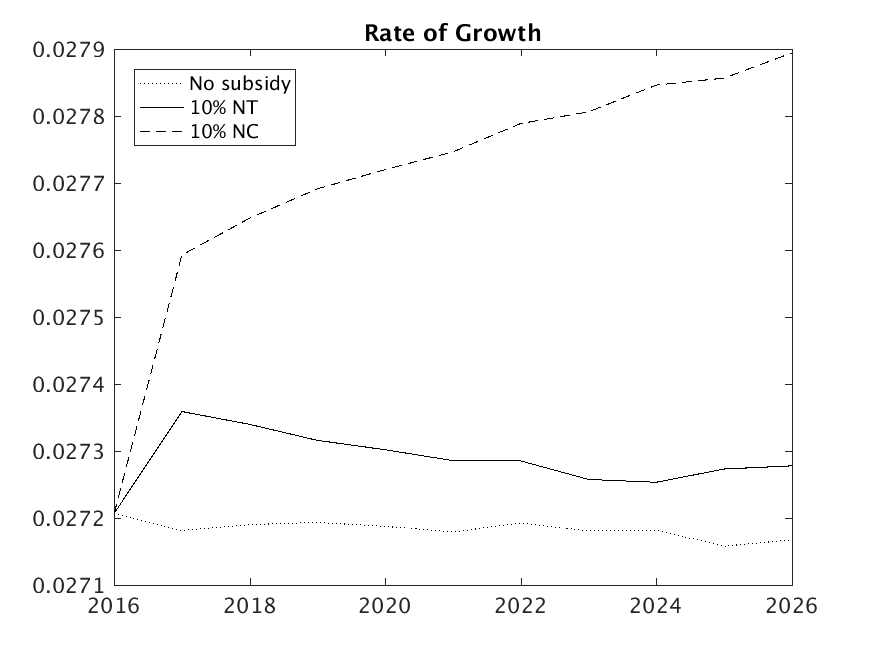
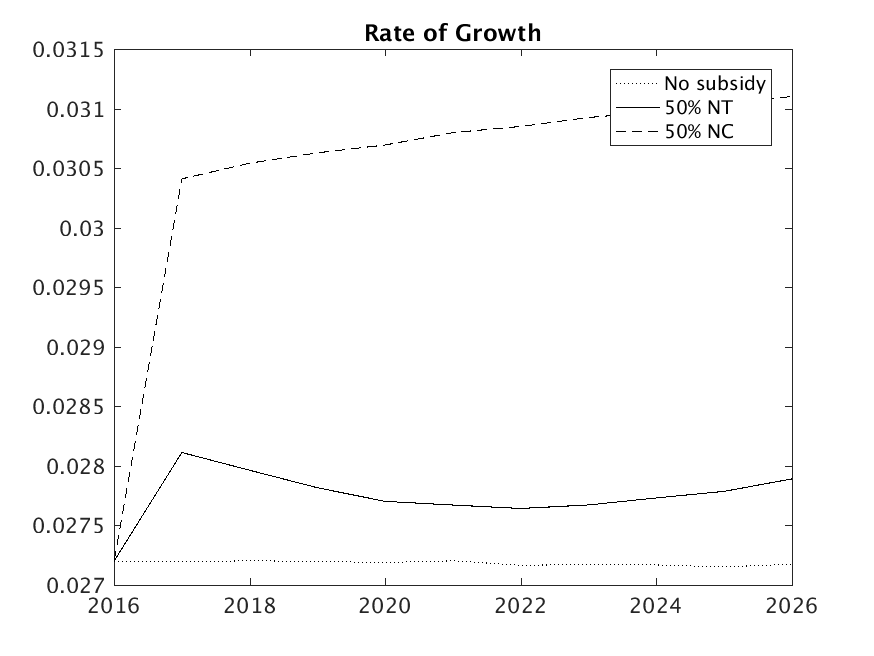
figures for homogeneous policy duration

diff --git a/simulations/consolidated/run_simulation.m b/simulations/consolidated/run_simulation.m
@@ -32,8 +32,8 @@ g2 = 0.02;              % final growth rate of patent numbers
 beg_inv = exp(6);       % number of inventors, chosen to match initial number of patents
 beg_year = 1836;        % beginning year
 Tbase = 180;            % number of periods to run baseline simulation
-Tsubs = 15;             % number of periods to run subsidy simulation
-Tdur = 5;               % duration of the subsidy
+Tsubs = 10;             % number of periods to run subsidy simulation
+Tdur = 10;              % duration of the subsidy
 Tmax = Tbase + Tsubs;
 
 % store parameters
@@ -266,7 +266,7 @@ substime = logical([zeros(Tbase-1,1); ones(Tsubs+1,1)]);
 figure(6)
 plot(periods(substime), growth(substime), ':k', periods(substime), growth_subs(substime,index), '-k', periods(substime), growth_subs(substime,index2), '--k')
 xlim([min(periods(substime)), max(periods(substime))])
-legend('No subsidy', '50% NT', '50% NC', 'location', 'Northwest')
+legend('No subsidy', '50% NT', '50% NC', 'location', 'Northeast')
 title('Rate of Growth')
 saveas(gcf, 'files/figures/growth_subs.png')
 
@@ -284,12 +284,12 @@ title('Firms` Costs (logs)')
 subplot(2,2,3)
 plot(periods(substime), log(inventor_cost(substime)), ':k', periods(substime), log(inventor_cost_subs(substime,index)), '-k', periods(substime), log(inventor_cost_subs(substime,index2)), '--k')
 xlim([min(periods(substime)), max(periods(substime))])
-legend('No subsidy', '50% NT', '50% NC','location','Northwest')
+legend('No subsidy', '50% NT', '50% NC','location','Northeast')
 title('Inventors` Costs (logs)')
 subplot(2,2,4)
 plot(periods(substime), log(policy_cost(substime)), ':k', periods(substime), log(policy_cost_subs(substime,index)), '-k', periods(substime), log(policy_cost_subs(substime,index2)), '--k')
 xlim([min(periods(substime)), max(periods(substime))])
-legend('No subsidy', '50% NT', '50% NC','location','Northwest')
+legend('No subsidy', '50% NT', '50% NC','location','Northeast')
 title('Cost of Subsidies (logs)')
 saveas(gcf, 'files/figures/aggregates_subs.png')
 
@@ -312,7 +312,7 @@ title('Change in Inventors` Costs')
 subplot(2,2,4)
 plot(periods(substime), policy_cost_subs(substime,index) - policy_cost(substime), '-k', periods(substime), policy_cost_subs(substime,index2) - policy_cost(substime), '--k')
 xlim([min(periods(substime)), max(periods(substime))])
-legend('50% NT', '50% NC','location','Northwest')
+legend('50% NT', '50% NC','location','Northeast')
 title('Change in Cost of Subsidies')
 saveas(gcf, 'files/figures/change_aggregates_subs.png')
 
@@ -343,14 +343,14 @@ xlim([min(periods(substime)), max(periods(substime))])
 subplot(2,2,2)
 plot(patent_shares(substime,1),patent_shares(substime,3), ':k', patent_shares(substime,1),patent_shares_subs(substime,3,index), '-k',...
     patent_shares(substime,1),patent_shares_subs(substime,3,index2), '--k')
-legend('No subsidy', '50% NT', '50% NC','location','Northwest')
+legend('No subsidy', '50% NT', '50% NC','location','Northeast')
 title('Share of NC Patents')
 xlabel('Year')
 xlim([min(periods(substime)), max(periods(substime))])
 subplot(2,2,3)
 plot(patent_shares(substime,1),patent_shares(substime,4), ':k', patent_shares(substime,1),patent_shares_subs(substime,4,index), '-k',...
     patent_shares(substime,1),patent_shares_subs(substime,4,index2), '--k')
-legend('No subsidy', '50% NT', '50% NC','location','Southwest')
+legend('No subsidy', '50% NT', '50% NC','location','Southeast')
 title('Share of Reuse Patents')
 xlabel('Year')
 xlim([min(periods(substime)), max(periods(substime))])

diff --git a/simulations/consolidated/simulate_model.m b/simulations/consolidated/simulate_model.m
@@ -37,7 +37,7 @@ function outputs = simulate_model(params, nrofperiods, beg_year, beg_inv, summar
     state = tech_state;
     quality = prod_quality;
 
-    if subsidy == [0 0]
+    if subsidy == 0
         subsidyNT = zeros(Tmax, 1);
         subsidyNC = zeros(Tmax, 1);
     else
